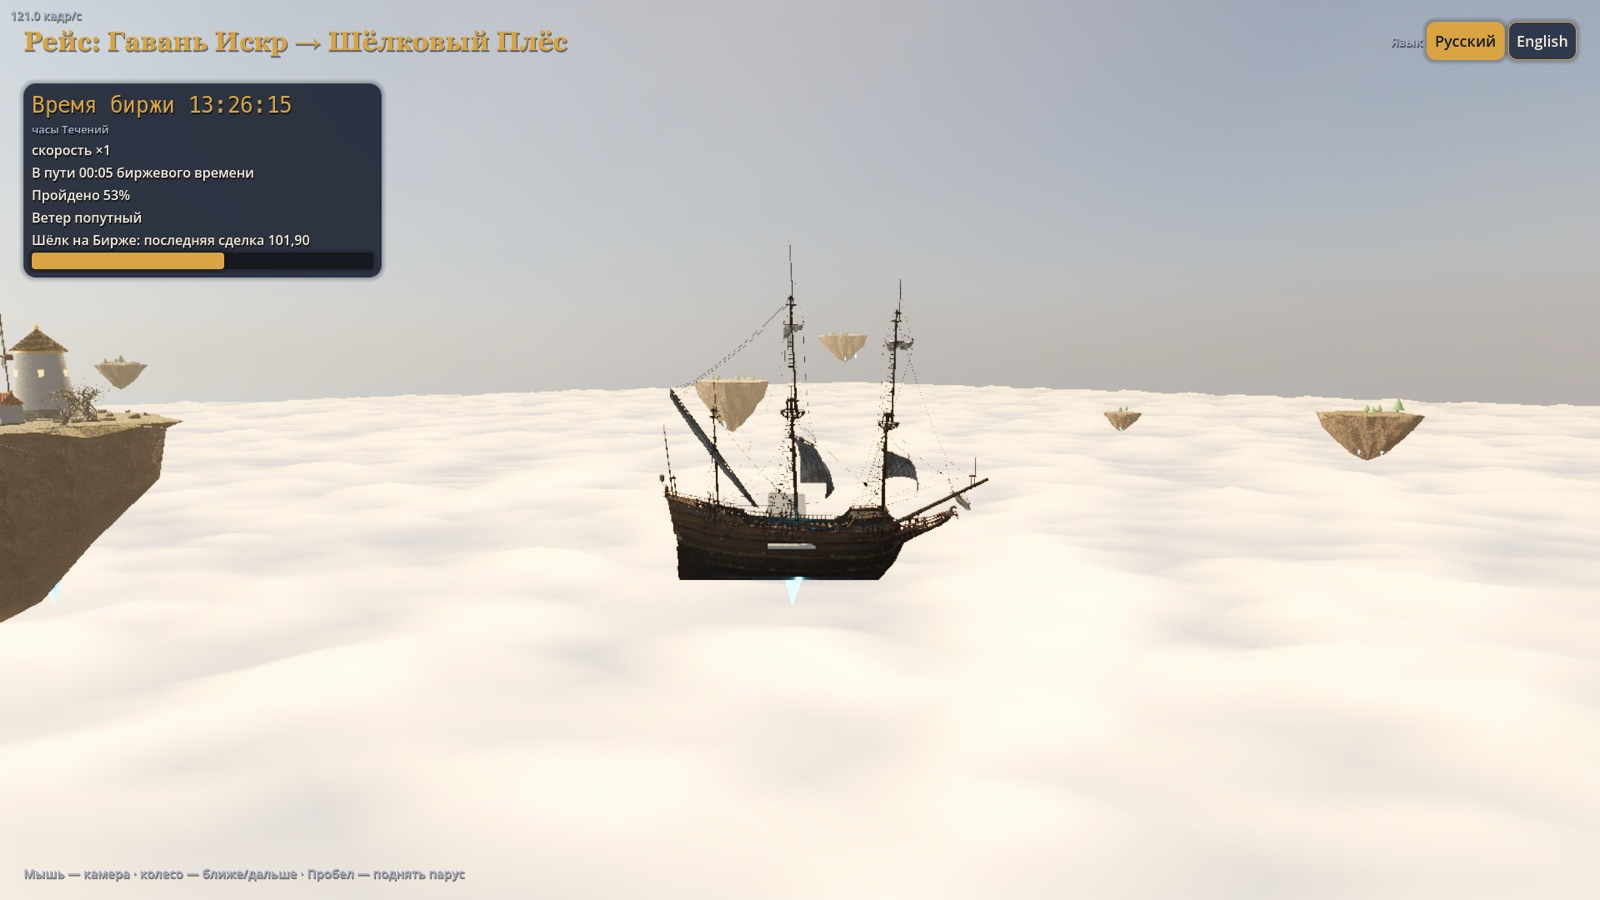
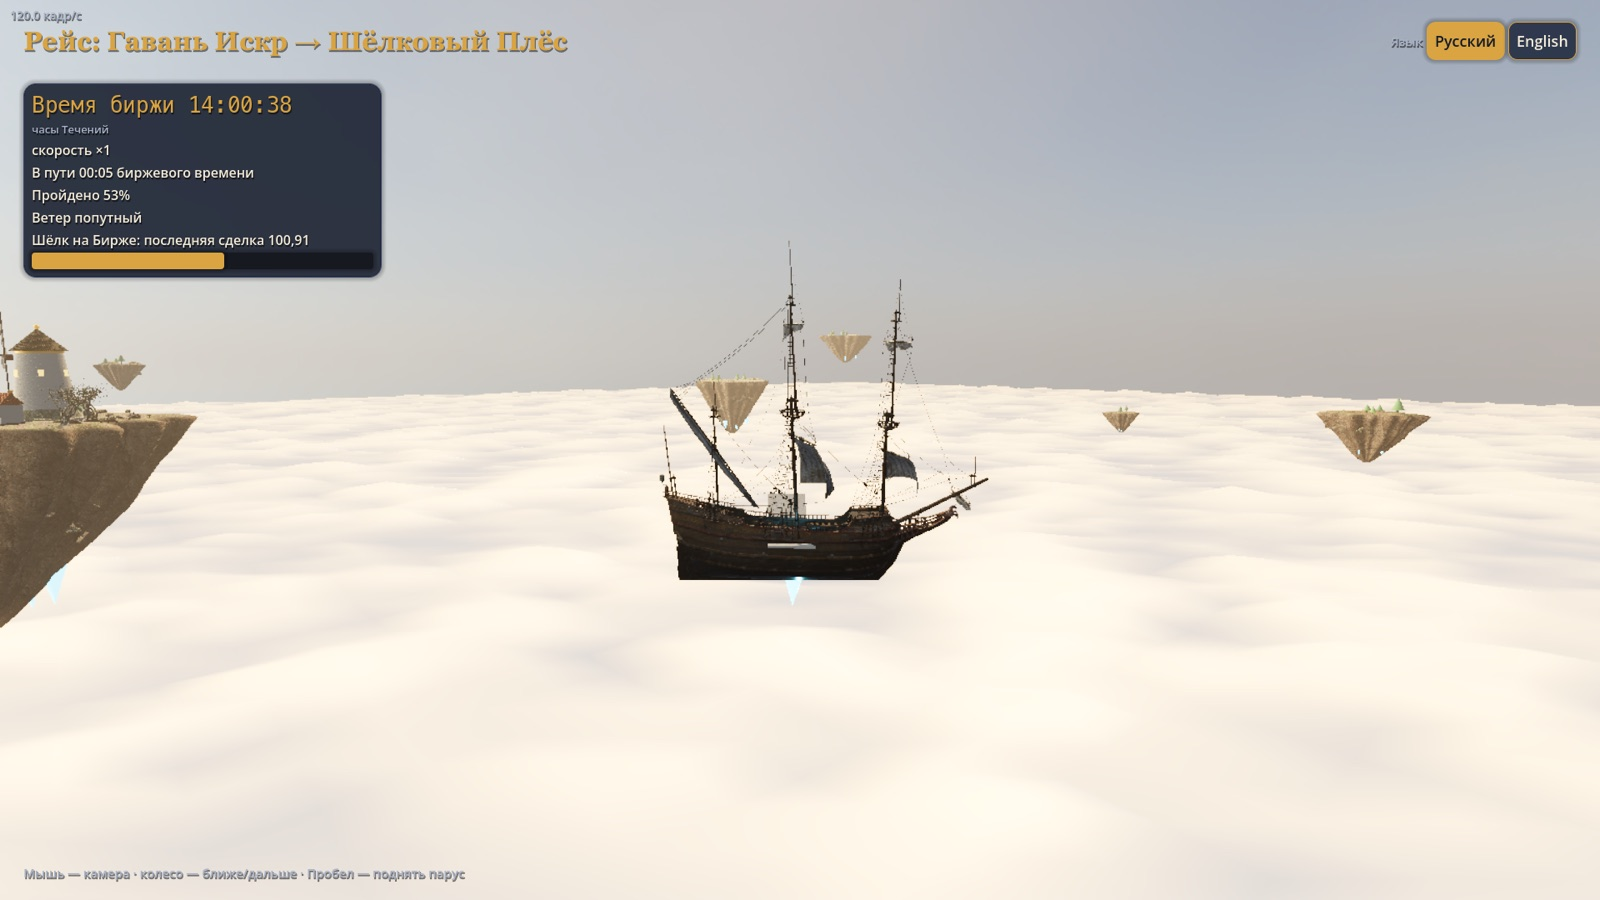
game3d: dense noise-carved islands dressed with CC0 rock faces and roots

diff --git a/game3d/tools/assets_resolve.py b/game3d/tools/assets_resolve.py
@@ -18,7 +18,7 @@ MODELS = ["dutch_ship_medium", "ship_pinnace", "wine_barrel_01", "wooden_barrels
           "rock_moss_set_01", "boulder_01", "fern_02", "shrub_01", "grass_medium_01",
           "wooden_bucket_01", "lifebuoy", "treasure_chest", "WoodenTable_01",
           "WoodenChair_01", "lantern_chandelier_01", "wooden_display_shelves_01",
-          "vintage_grandfather_clock_01", "book_encyclopedia_set_01", "seadogs_compass", "island_tree_02", "fishermans_hat"]
+          "vintage_grandfather_clock_01", "book_encyclopedia_set_01", "seadogs_compass", "island_tree_02", "fishermans_hat", "rock_face_01", "rock_face_02", "namaqualand_cliff_01", "root_cluster_01", "single_root", "rock_07", "rock_09"]
 
 def api(asset):
     req = urllib.request.Request(f"https://api.polyhaven.com/files/{asset}",

diff --git a/game3d/ASSETS.md b/game3d/ASSETS.md
@@ -3,7 +3,7 @@
 ## Downloaded CC0 art (ADR-0019)
 
 Not in git. `make assets` downloads every file listed in `game3d/assets.lock` (source URL, size, MD5 published by
-Poly Haven) into `game3d/assets/` and checks each MD5. Total 169 MB, 213 files.
+Poly Haven) into `game3d/assets/` and checks each MD5. Total 198 MB, 248 files.
 To change the list: edit `game3d/tools/assets_resolve.py`, run it to regenerate the lock, run `make assets`.
 
 All Poly Haven assets are CC0 1.0 — public domain, no attribution required (https://polyhaven.com/license).
@@ -52,6 +52,13 @@ clash with PBR).
 | `quatrefoil_jacquard_fabric` | PBR texture set (diff, nor_gl, arm, 1k) | [polyhaven.com/a/quatrefoil_jacquard_fabric](https://polyhaven.com/a/quatrefoil_jacquard_fabric) | CC0 | 2.6 MB |
 | `rock_face_03` | PBR texture set (diff, nor_gl, arm, 1k) | [polyhaven.com/a/rock_face_03](https://polyhaven.com/a/rock_face_03) | CC0 | 2.9 MB |
 | `weathered_planks` | PBR texture set (diff, nor_gl, arm, 1k) | [polyhaven.com/a/weathered_planks](https://polyhaven.com/a/weathered_planks) | CC0 | 1.8 MB |
+| `namaqualand_cliff_01` | glTF model (1k textures) | [polyhaven.com/a/namaqualand_cliff_01](https://polyhaven.com/a/namaqualand_cliff_01) | CC0 | 4.5 MB |
+| `rock_07` | glTF model (1k textures) | [polyhaven.com/a/rock_07](https://polyhaven.com/a/rock_07) | CC0 | 2.2 MB |
+| `rock_09` | glTF model (1k textures) | [polyhaven.com/a/rock_09](https://polyhaven.com/a/rock_09) | CC0 | 2.0 MB |
+| `rock_face_01` | glTF model (1k textures) | [polyhaven.com/a/rock_face_01](https://polyhaven.com/a/rock_face_01) | CC0 | 3.0 MB |
+| `rock_face_02` | glTF model (1k textures) | [polyhaven.com/a/rock_face_02](https://polyhaven.com/a/rock_face_02) | CC0 | 3.5 MB |
+| `root_cluster_01` | glTF model (1k textures) | [polyhaven.com/a/root_cluster_01](https://polyhaven.com/a/root_cluster_01) | CC0 | 9.5 MB |
+| `single_root` | glTF model (1k textures) | [polyhaven.com/a/single_root](https://polyhaven.com/a/single_root) | CC0 | 3.8 MB |
 
 How they are used: `scripts/assets.gd` (paths, fallbacks), `scripts/proc.gd` (`_pbr_for` palette → texture set,
 `_real_ship`, `_person`), `scripts/archipelago.gd` (sky, harbour props, trees), `scripts/hall.gd` (interior).

diff --git a/DECISIONS.md b/DECISIONS.md
@@ -173,3 +173,7 @@ Build and CI
 - game3d harbour fps (ADR-0019): the Poly Haven tree carries ~700k leaf triangles drawn with a depth pre-pass and no
   LODs after load, which cost ~30 fps. `Assets.thinned()` keeps every 3rd leaf card, switches leaves to alpha scissor and
   regenerates LODs; plus LOD threshold 6 px and half-resolution GI. Worst harbour view: 41 → 65 fps (Apple M5, 1080p).
+- game3d islands (ADR-0019): with assets the island mesh is `Proc.island_mesh_hd` (120 sides, 26 rings, noise cliffs
+  with ledges, welded smooth normals; the cap stays flat inside 0.9 r so walking and props are unchanged), dressed with
+  Poly Haven rock faces, cliffs, roots and pebbles; far islands get a light set. Thinned trees use `lod_bias` 2.5 so
+  generated LODs don't strip the crown. Harbour stays ≥ 60 fps (worst view 64).

diff --git a/docs/demo/G3D.md b/docs/demo/G3D.md
@@ -12,7 +12,7 @@ make game3d         # opens the 3D client
 ```
 Another port: `cd game3d && godot --path . -- --server=http://localhost:8090`. `F3` shows fps.
 
-Self-run demo that produced the screenshots below (Apple M5, 1920×1080, Forward+/Metal, FSR 2 at 0.8; fps is in the top-left corner of each shot: menu, hall and voyage 90–120, harbour 71–81; the worst harbour view measured steady at 65 fps):
+Self-run demo that produced the screenshots below (Apple M5, 1920×1080, Forward+/Metal, FSR 2 at 0.8; fps is in the top-left corner of each shot: menu, hall and voyage 90–120, harbour 64–111; islands are dense noise-carved cliffs dressed with real rock faces and roots):
 ```
 cd game3d && godot --path . --resolution 1920x1080 --always-on-top -- --server=http://localhost:8090 --demo=../docs/demo/g3d
 ```
